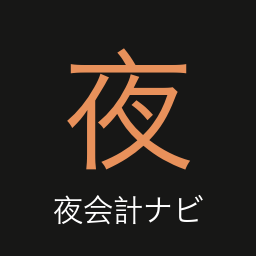
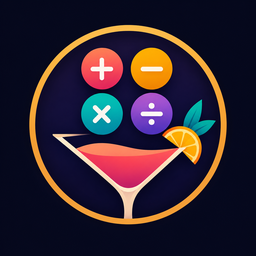
夜会計ナビ

diff --git a/index.html b/index.html
@@ -51,6 +51,31 @@
             ・右上の app-privacy → プライバシーポリシー（🔒 JA=日本語 / EN=英語。リンク取得用）
           -->
           <div class="app-card app-card--link">
+            <a class="app-card-link" href="./apps/yorunabi/">
+              <img
+                class="app-icon"
+                src="./apps/yorunabi/icon.png"
+                alt="夜会計ナビ アイコン"
+                width="96"
+                height="96"
+              />
+              <div class="app-info">
+                <h3>夜会計ナビ - 夜のお店のリアルタイム会計カウンター</h3>
+                <p>キャバクラ・ガールズバー等のセット料金を時間で自動計算。今のお会計をリアルタイムに見える化する会計カウンター。</p>
+                <span class="app-cta">ダウンロード →</span>
+              </div>
+            </a>
+            <div class="app-privacy" aria-label="プライバシーポリシー">
+              <svg viewBox="0 0 24 24" width="16" height="16" fill="none" stroke="currentColor" stroke-width="2" stroke-linecap="round" stroke-linejoin="round" aria-hidden="true">
+                <rect x="3" y="11" width="18" height="11" rx="2" />
+                <path d="M7 11V7a5 5 0 0 1 10 0v4" />
+              </svg>
+              <a href="./apps/yorunabi/privacy.html" title="プライバシーポリシー（日本語）">JA</a>
+              <a href="./apps/yorunabi/privacy-en.html" title="Privacy Policy (English)">EN</a>
+            </div>
+          </div>
+
+          <div class="app-card app-card--link">
             <a class="app-card-link" href="./apps/taiju-log/">
               <img
                 class="app-icon"

diff --git a/apps/index.html b/apps/index.html
@@ -43,6 +43,28 @@
           <article class="app-card">
             <img
               class="app-icon"
+              src="./yorunabi/icon.png"
+              alt="夜会計ナビ アイコン"
+              width="96"
+              height="96"
+            />
+            <div class="app-info">
+              <h3>夜会計ナビ - 夜のお店のリアルタイム会計カウンター</h3>
+              <p>キャバクラ・ガールズバー等のセット料金を時間で自動計算。今のお会計をリアルタイムに見える化する会計カウンター。</p>
+              <div class="store-badges">
+                <a href="https://apps.apple.com/app/id6787710214" aria-label="App Store でダウンロード">
+                  <img src="../assets/app-store-badge.svg" alt="App Store でダウンロード" />
+                </a>
+                <a href="https://play.google.com/store/apps/details?id=com.misoclub.nightlife" aria-label="Google Play で手に入れよう">
+                  <img src="../assets/google-play-badge.png" alt="Google Play で手に入れよう" />
+                </a>
+              </div>
+            </div>
+          </article>
+
+          <article class="app-card">
+            <img
+              class="app-icon"
               src="./taiju-log/icon.png"
               alt="きょうの体重 アイコン"
               width="96"

diff --git a/apps/yorunabi/index.html b/apps/yorunabi/index.html
@@ -26,7 +26,6 @@
       アプリのシェア機能などから飛ばすダウンロード専用ページ。
       iOS / Android を選んでダウンロードしてもらう。
       misoclub の他アプリ一覧へのリンク以外は置かない。
-      ↓ App Store の URL は App ID 発行後に href="#" を差し替えてください。
     -->
     <main class="dl-page">
       <img src="./splash.jpg" alt="夜会計ナビ" class="dl-splash" />
@@ -35,8 +34,8 @@
       <p class="dl-desc">お使いの端末を選んでダウンロード</p>
 
       <div class="store-badges">
-        <!-- iOS / App Store（App ID 未発行のため仮リンク） -->
-        <a href="#" aria-label="App Store でダウンロード">
+        <!-- iOS / App Store -->
+        <a href="https://apps.apple.com/app/id6787710214" aria-label="App Store でダウンロード">
           <img src="../../assets/app-store-badge.svg" alt="App Store でダウンロード" />
         </a>
 